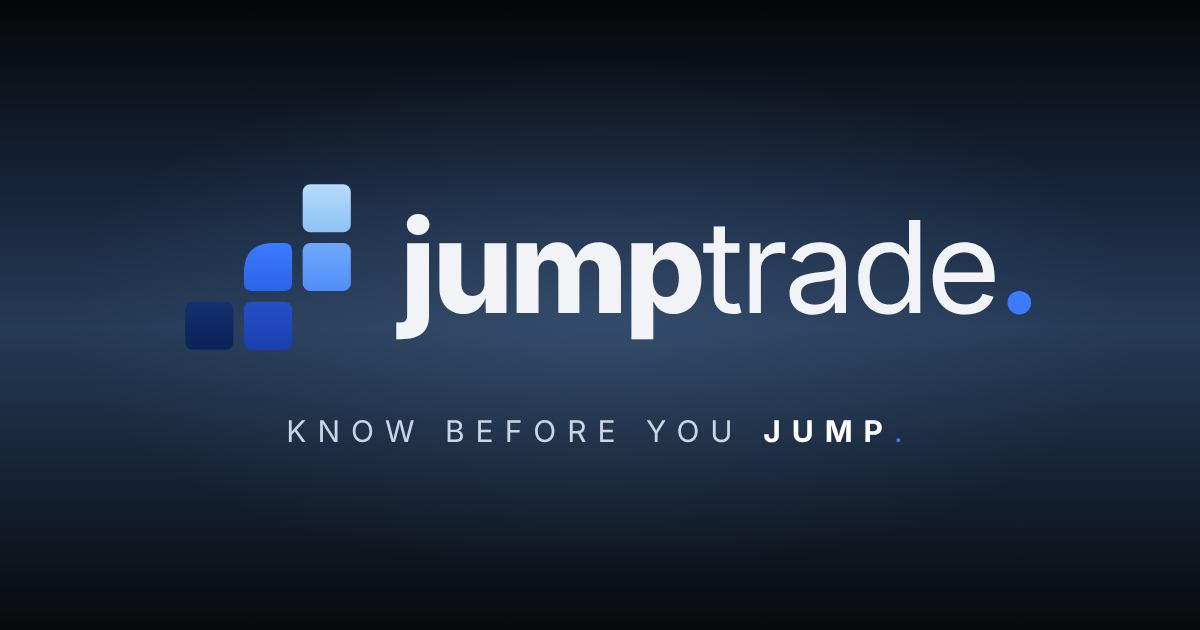
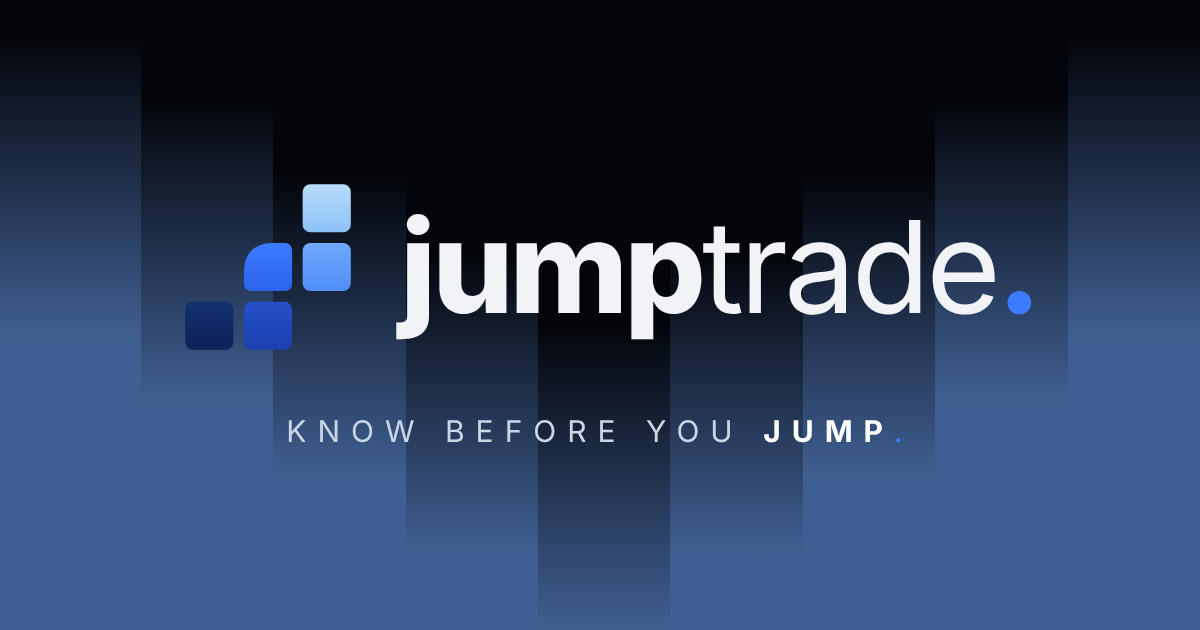
Navy bands on splash and share image (app keeps tiles)
Claude-Session: https://claude.ai/code/session_01AH9n8DoqYqXCswdWXtFJ9D

diff --git a/web/index.html b/web/index.html
@@ -5,7 +5,7 @@
 <meta name="description" content="Know before you jump.">
 <meta property="og:title" content="jumptrade.">
 <meta property="og:description" content="Know before you jump.">
-<meta property="og:image" content="https://jumptrade.app/og.png?v=navy">
+<meta property="og:image" content="https://jumptrade.app/og.png?v=bands">
 <meta property="og:url" content="https://jumptrade.app/">
 <meta property="og:type" content="website">
 <meta name="twitter:card" content="summary_large_image">
@@ -337,7 +337,7 @@ html body .tsl{gap:3px 8px!important}html body .tsl i{letter-spacing:-.1px!impor
 .fsWrap{position:relative;touch-action:pan-y}.fsSvg{display:block;max-width:100%;height:auto}.fsH{display:none;position:absolute;top:0;padding:4px 8px;border-radius:8px;background:rgba(20,26,36,.95);border:1px solid rgba(255,255,255,.1);font-size:12px;color:#C9D2E0;white-space:nowrap;pointer-events:none}.fsH b{color:#fff;font-weight:600}
 .fsRead{list-style:none;margin:12px 0 0;padding:0;display:flex;flex-direction:column;gap:8px}.fsRead li{display:flex;gap:10px;align-items:flex-start;font-size:13.5px;line-height:1.45;color:#C9D2E0}.fsRead li i{flex:none;width:14px;height:3px;border-radius:2px;margin-top:8px}.fsRead b{color:#ECEBE8;font-weight:600}.fsNote{font-size:11.5px;color:#6B7686;margin:12px 0 0}
 :is(#_,html) body .cfoot{flex-wrap:wrap;row-gap:6px}:is(#_,html) body .legend2{gap:9px!important;flex-wrap:wrap}:is(#_,html) body .legend2 span{white-space:nowrap}
-/*navySplash*/:is(#_,html) #splash{background:radial-gradient(60% 40% at 55% 45%,rgba(120,160,215,.18) 0%,rgba(120,160,215,0) 75%),linear-gradient(180deg,#060606 0%,#16243A 30%,#253A55 52%,#152234 76%,#08090B 100%)!important}
+/*navySplash*/:is(#_,html) #splash{background:linear-gradient(180deg,#03050A 10%,#3F5F92 55%) 0.000% 0/11.711% 100% no-repeat,linear-gradient(180deg,#03050A 20%,#3F5F92 65%) 12.500% 0/11.711% 100% no-repeat,linear-gradient(180deg,#03050A 30%,#3F5F92 75%) 25.000% 0/11.711% 100% no-repeat,linear-gradient(180deg,#03050A 40%,#3F5F92 85%) 37.500% 0/11.711% 100% no-repeat,linear-gradient(180deg,#03050A 50%,#3F5F92 95%) 50.000% 0/11.711% 100% no-repeat,linear-gradient(180deg,#03050A 40%,#3F5F92 85%) 62.500% 0/11.711% 100% no-repeat,linear-gradient(180deg,#03050A 30%,#3F5F92 75%) 75.000% 0/11.711% 100% no-repeat,linear-gradient(180deg,#03050A 20%,#3F5F92 65%) 87.500% 0/11.711% 100% no-repeat,linear-gradient(180deg,#03050A 10%,#3F5F92 55%) 100.000% 0/11.711% 100% no-repeat,#03050A!important}
 </style><style id="cssL" media="not all">
 *{box-sizing:border-box} html,body{margin:0;height:100%;background:#B7DBFB;color:#080F17;font-family:'Inter Tight',system-ui,-apple-system,sans-serif;-webkit-font-smoothing:antialiased;overscroll-behavior:none}
 button{font-family:inherit;color:inherit} a{color:inherit;text-decoration:none}
